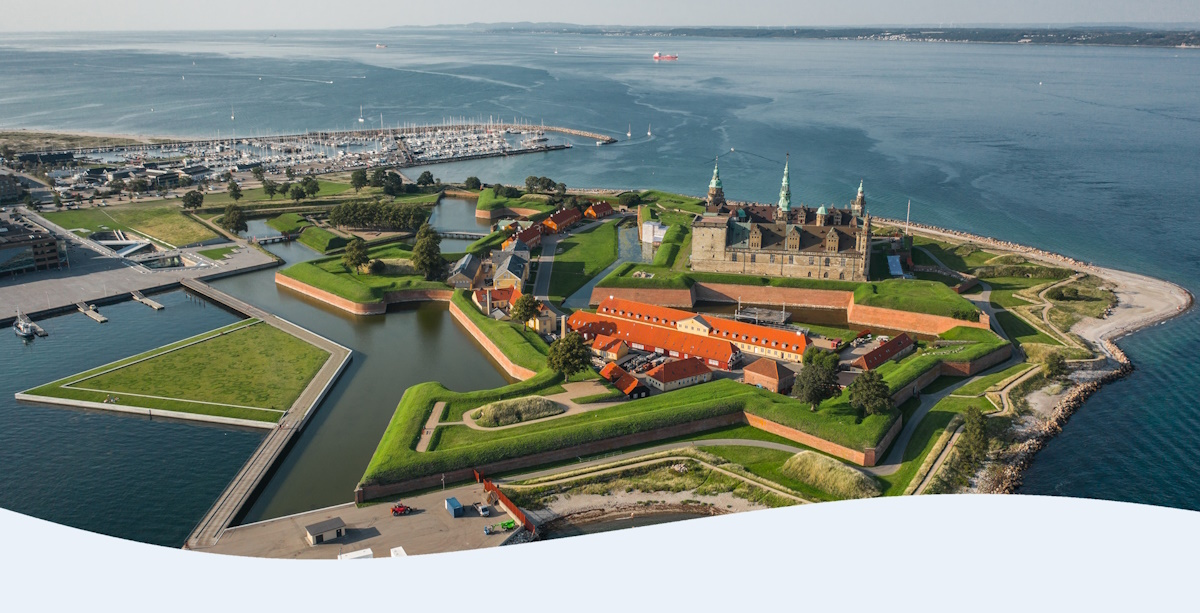
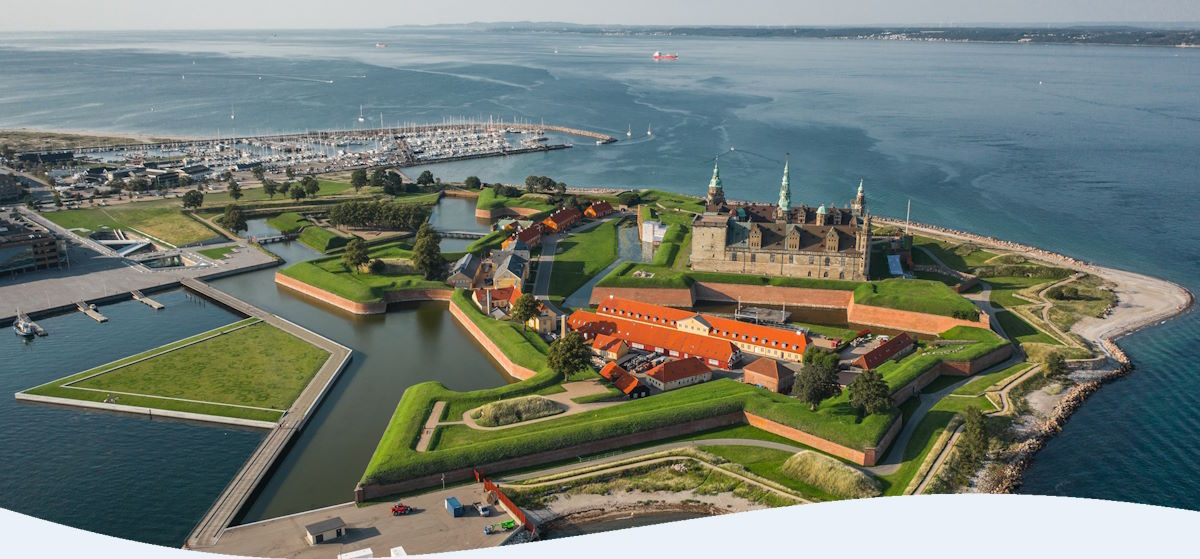
resizing hero img

diff --git a/chamber/index.html b/chamber/index.html
@@ -37,7 +37,7 @@
         </header>
         <main>
             <div class="hero">
-                <img class="hero-background" src="images/hero.png" alt="">
+                <img class="hero-background" src="images/hero.jpg" alt="">
                 <div class="hero-button-position">
                     <a class="hero-button" href="#">Join Now</a>
                 </div>
